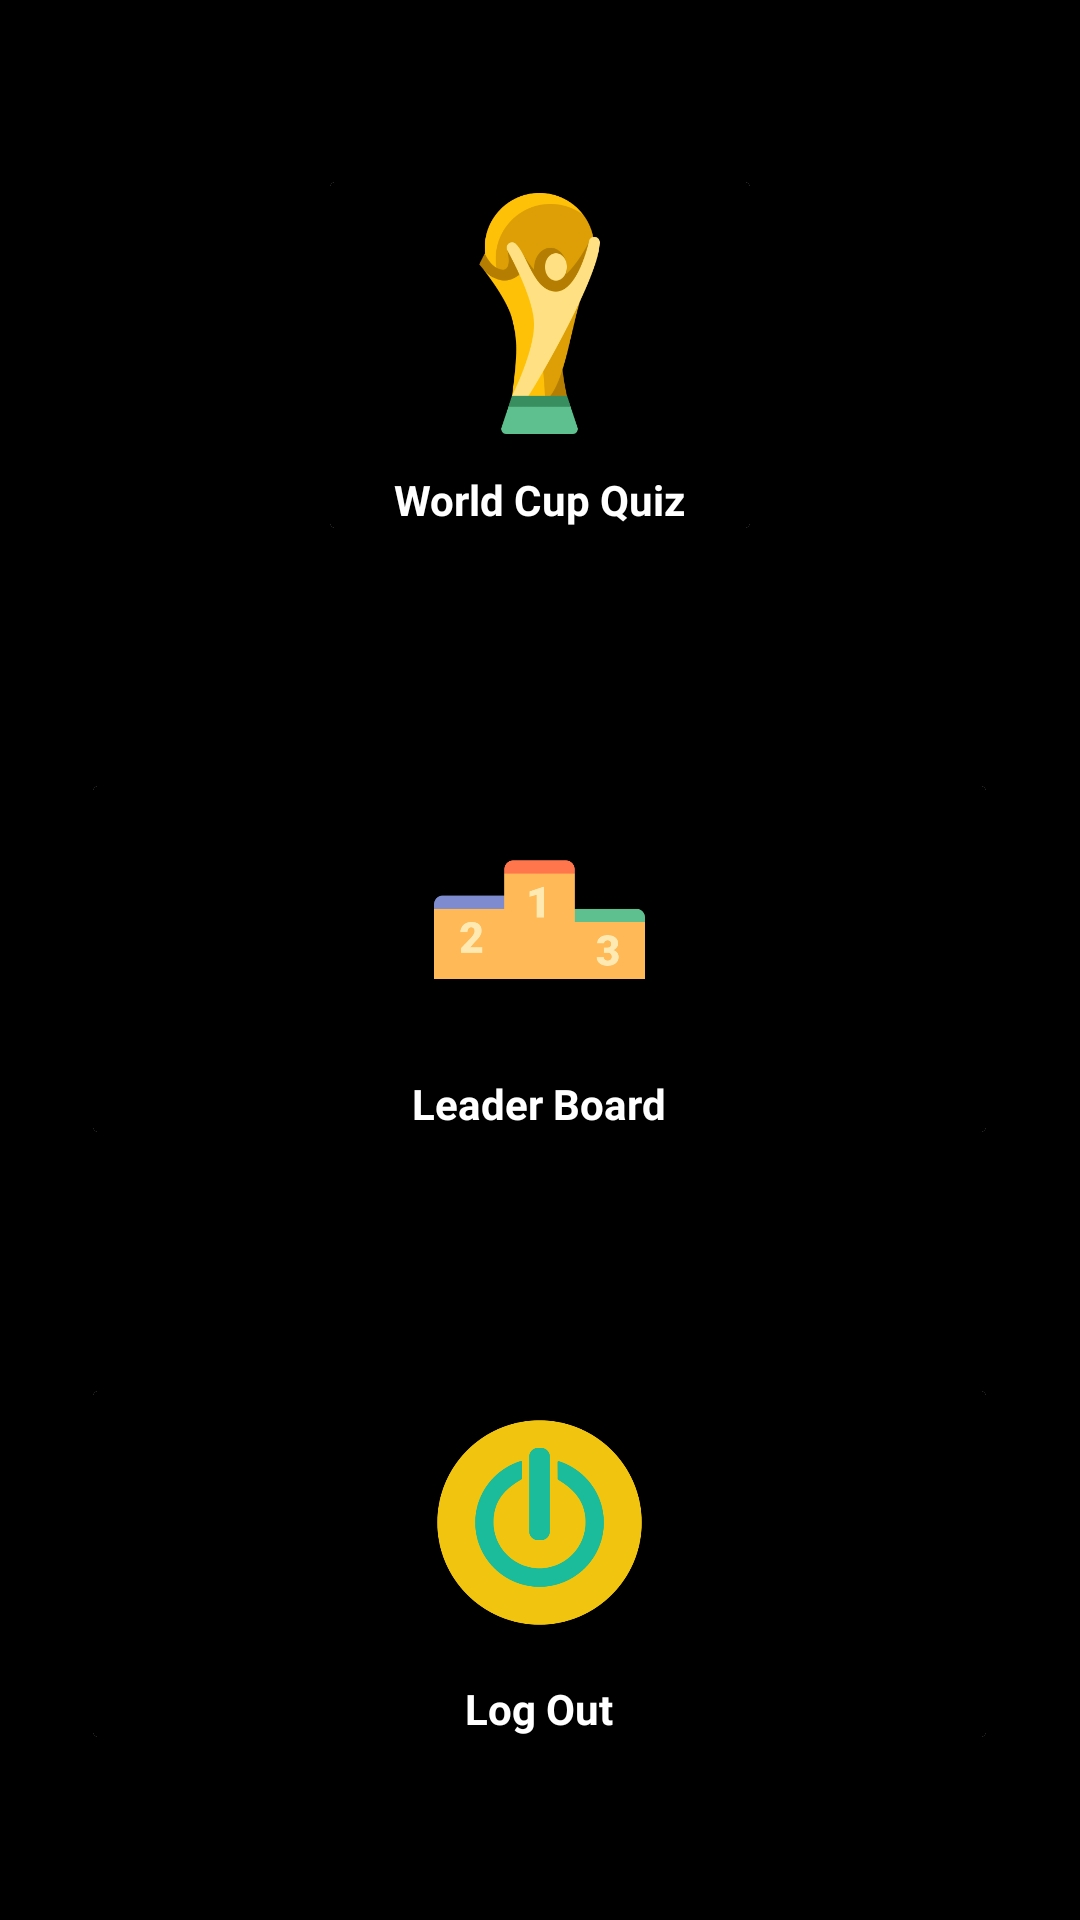
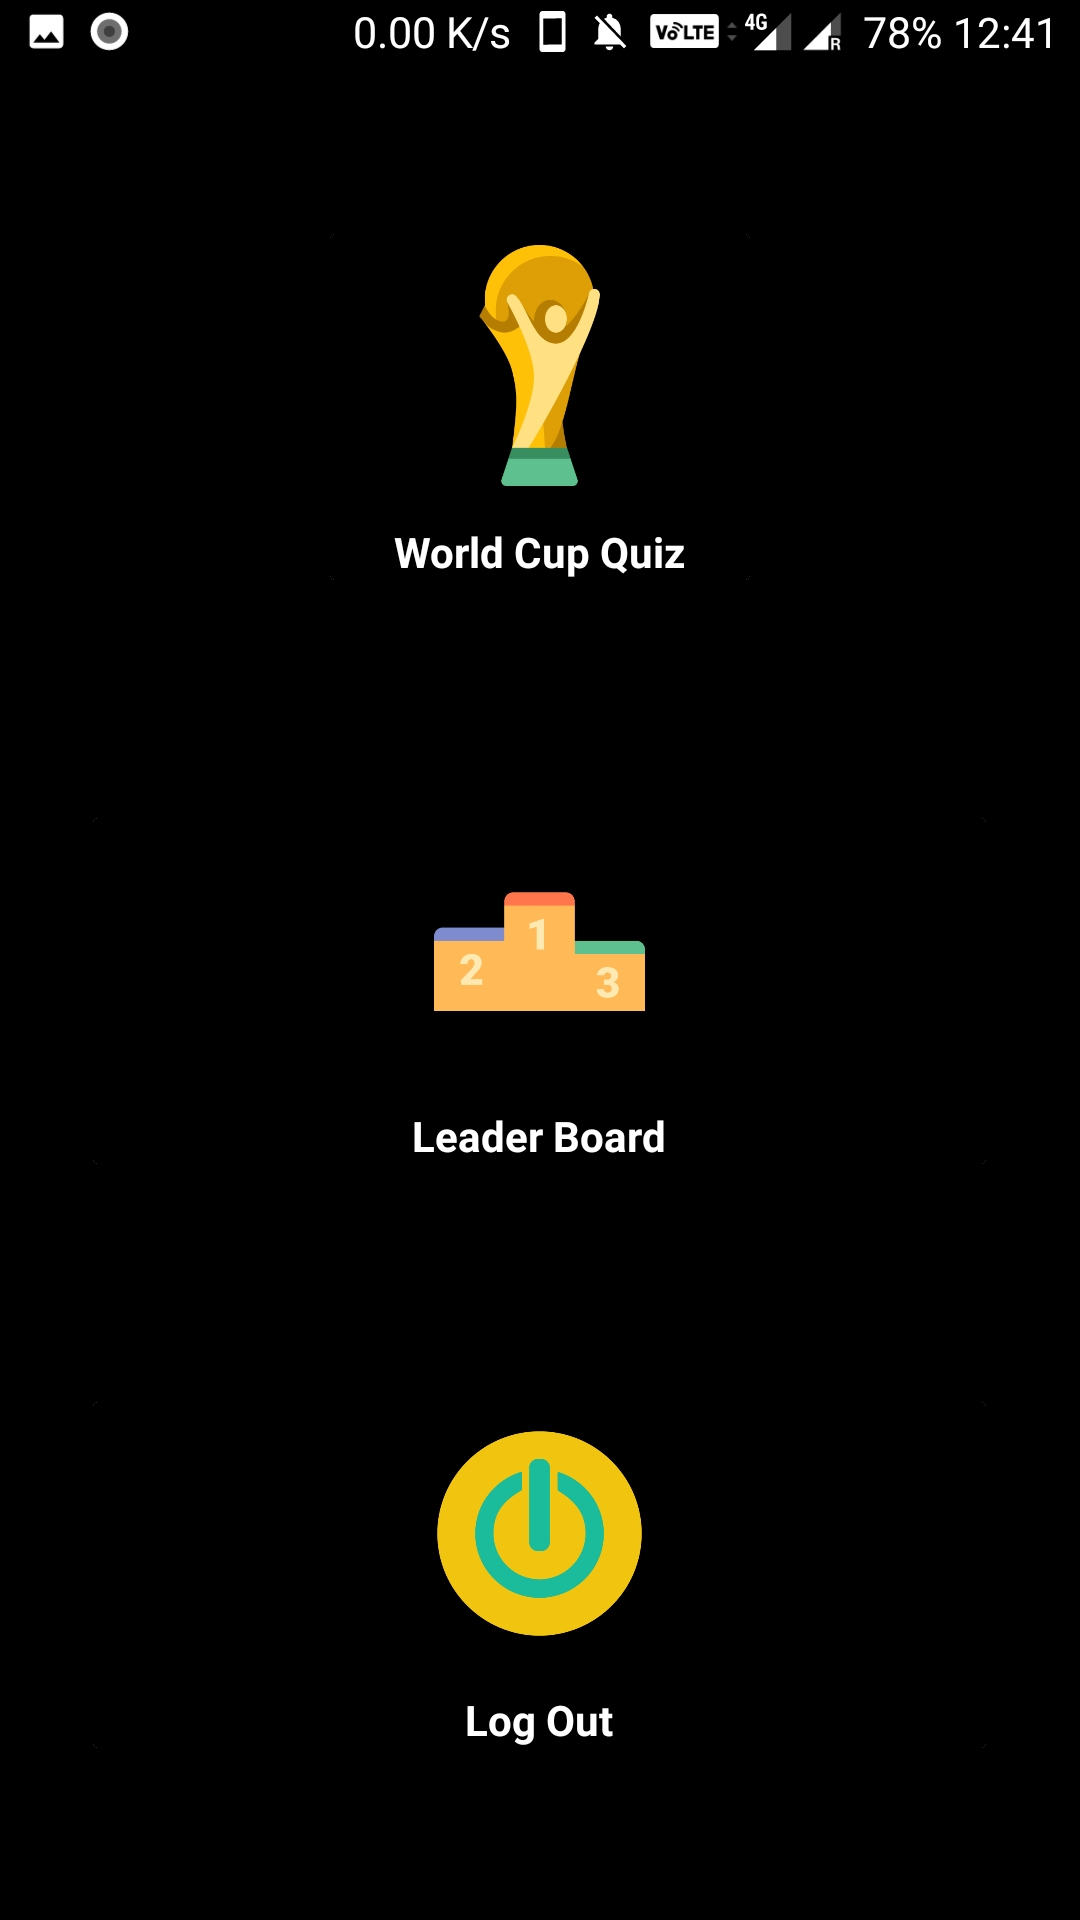
SS Update

diff --git a/app/src/main/java/u/com/example/quiz/QB.java b/app/src/main/java/u/com/example/quiz/QB.java
@@ -44,12 +44,10 @@ public class QB {
                     new String[]{"Cameroon", "Eygpt", "South Africa", "Tunisia"}, "Eygpt"));
             myDataBaseHelper.addInitialQuestion(new Question("Which country won most World cups?",
                     new String[]{"Argentina", "Brazil", "Germany", "Italy"}, "Brazil"));
-            myDataBaseHelper.addInitialQuestion(new Question("\n" +
-                    "Where was the first World cup held?",
+            myDataBaseHelper.addInitialQuestion(new Question("Where was the first World cup held?",
                     new String[]{"Argentina", "Brazil", "England", "Uruguay"}, "Uruguay"));
             myDataBaseHelper.addInitialQuestion(new Question("World cup was never held in one of these continents",
-                    new String[]{"Africa", "Asia", "Australia/Oceania", "\n" +
-                            "North America"}, "Australia/Oceania"));
+                    new String[]{"Africa", "Asia", "Australia/Oceania", "North America"}, "Australia/Oceania"));
             myDataBaseHelper.addInitialQuestion(new Question("One of these South American teams never became a world champion",
                     new String[]{"Brazil", "Argentina", "Chile", "Uruguay"}, "Chile"));
 

diff --git a/app/src/main/java/u/com/example/quiz/LeaderWC.java b/app/src/main/java/u/com/example/quiz/LeaderWC.java
@@ -6,6 +6,8 @@ import android.support.v7.app.AppCompatActivity;
 import android.os.Bundle;
 import android.util.Log;
 import android.view.View;
+import android.view.Window;
+import android.view.WindowManager;
 import android.widget.Button;
 
 public class LeaderWC extends AppCompatActivity {
@@ -23,7 +25,12 @@ public class LeaderWC extends AppCompatActivity {
     @Override
     protected void onCreate(Bundle savedInstanceState) {
         super.onCreate(savedInstanceState);
+
+        requestWindowFeature(Window.FEATURE_NO_TITLE);
+//        this.getWindow().setFlags(WindowManager.LayoutParams.FLAG_FULLSCREEN,
+//                WindowManager.LayoutParams.FLAG_FULLSCREEN);//int flag, int mask
         setContentView(R.layout.activity_score);
+
         Button button = (Button)findViewById(R.id.play_buttoncric);
         //TextView txtScore = (TextView) findViewById(R.id.textScore);
         //TextView fplace = (TextView) findViewById(R.id.first);

diff --git a/app/src/main/java/u/com/example/quiz/RegisterActivity.java b/app/src/main/java/u/com/example/quiz/RegisterActivity.java
@@ -20,10 +20,10 @@ public class RegisterActivity extends AppCompatActivity{
     public TextView log;
     protected void onCreate(Bundle savedInstanceState) {
         super.onCreate(savedInstanceState);
-        requestWindowFeature(Window.FEATURE_NO_TITLE);
-        //code that displays the content in full screen mode
-        this.getWindow().setFlags(WindowManager.LayoutParams.FLAG_FULLSCREEN,
-                WindowManager.LayoutParams.FLAG_FULLSCREEN);//int flag, int mask
+//        requestWindowFeature(Window.FEATURE_NO_TITLE);
+//        //code that displays the content in full screen mode
+//        this.getWindow().setFlags(WindowManager.LayoutParams.FLAG_FULLSCREEN,
+//                WindowManager.LayoutParams.FLAG_FULLSCREEN);//int flag, int mask
 
         setContentView(R.layout.activity_register);
         db = new DBHelper(this);

diff --git a/app/src/main/java/u/com/example/quiz/Main2Activity.java b/app/src/main/java/u/com/example/quiz/Main2Activity.java
@@ -6,6 +6,8 @@ import android.support.v7.app.AppCompatActivity;
 import android.support.v4.view.ViewPager;
 import android.os.Bundle;
 import android.util.Log;
+import android.view.Window;
+import android.view.WindowManager;
 
 public class Main2Activity extends AppCompatActivity {
 
@@ -24,6 +26,9 @@ public class Main2Activity extends AppCompatActivity {
     @Override
     protected void onCreate(Bundle savedInstanceState) {
         super.onCreate(savedInstanceState);
+//        requestWindowFeature(Window.FEATURE_NO_TITLE);
+//        this.getWindow().setFlags(WindowManager.LayoutParams.FLAG_FULLSCREEN,
+//                WindowManager.LayoutParams.FLAG_FULLSCREEN);//int flag, int mask
         setContentView(R.layout.activity_main2);
         Log.d(TAG, "onCreate: Starting.");
 

diff --git a/app/src/main/java/u/com/example/quiz/MainActivity.java b/app/src/main/java/u/com/example/quiz/MainActivity.java
@@ -25,9 +25,9 @@ public class MainActivity extends AppCompatActivity {
     @Override
     protected void onCreate(Bundle savedInstanceState) {
         super.onCreate(savedInstanceState);
-        requestWindowFeature(Window.FEATURE_NO_TITLE);
-        this.getWindow().setFlags(WindowManager.LayoutParams.FLAG_FULLSCREEN,
-                WindowManager.LayoutParams.FLAG_FULLSCREEN);//int flag, int mask
+//        requestWindowFeature(Window.FEATURE_NO_TITLE);
+//        this.getWindow().setFlags(WindowManager.LayoutParams.FLAG_FULLSCREEN,
+//                WindowManager.LayoutParams.FLAG_FULLSCREEN);//int flag, int mask
 
         setContentView(R.layout.main);
         user=(EditText)findViewById(R.id.input_email);

diff --git a/app/src/main/java/u/com/example/quiz/Dash.java b/app/src/main/java/u/com/example/quiz/Dash.java
@@ -14,9 +14,7 @@ public class Dash extends AppCompatActivity {
     @Override
     protected void onCreate(Bundle savedInstanceState) {
         super.onCreate(savedInstanceState);
-        requestWindowFeature(Window.FEATURE_NO_TITLE);
-        this.getWindow().setFlags(WindowManager.LayoutParams.FLAG_FULLSCREEN,
-                WindowManager.LayoutParams.FLAG_FULLSCREEN);
+
         setContentView(R.layout.activity_dashboard);
         cric = (CardView)findViewById(R.id.cricketquiz);
         topscore = (CardView)findViewById(R.id.topscore);

diff --git a/app/src/main/java/u/com/example/quiz/Quiz.java b/app/src/main/java/u/com/example/quiz/Quiz.java
@@ -32,6 +32,7 @@ public class Quiz extends AppCompatActivity {
     @Override
     protected void onCreate(Bundle savedInstanceState) {
         super.onCreate(savedInstanceState);
+
         setContentView(R.layout.activity_quiz);
         mScoreView = (TextView)findViewById(R.id.score);
         mQuestionView = (TextView)findViewById(R.id.question);
